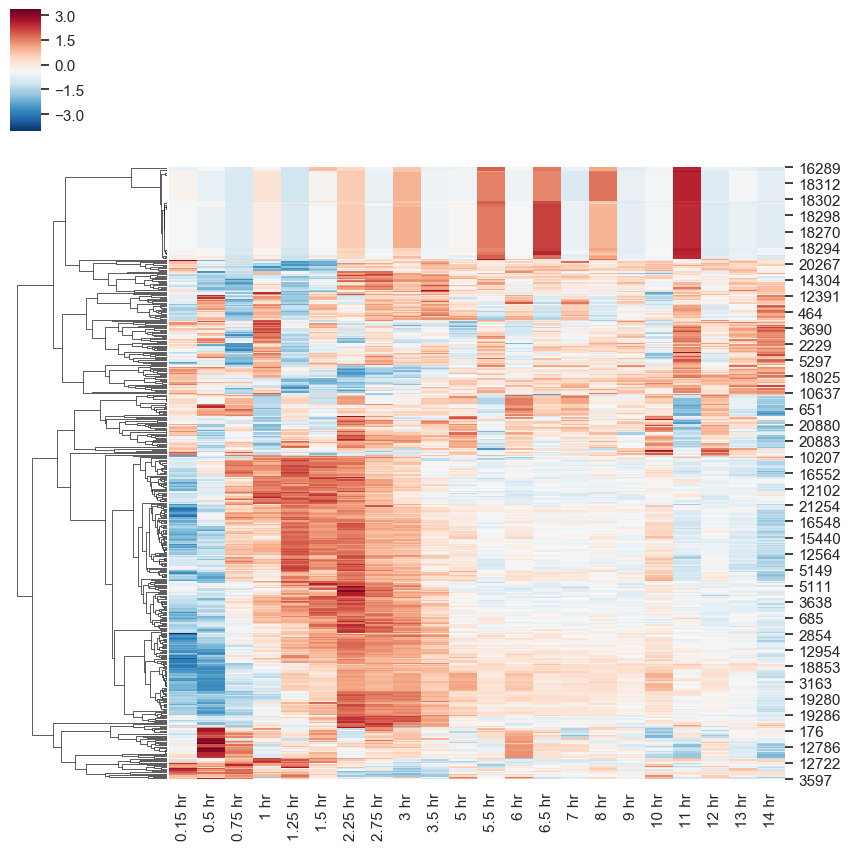
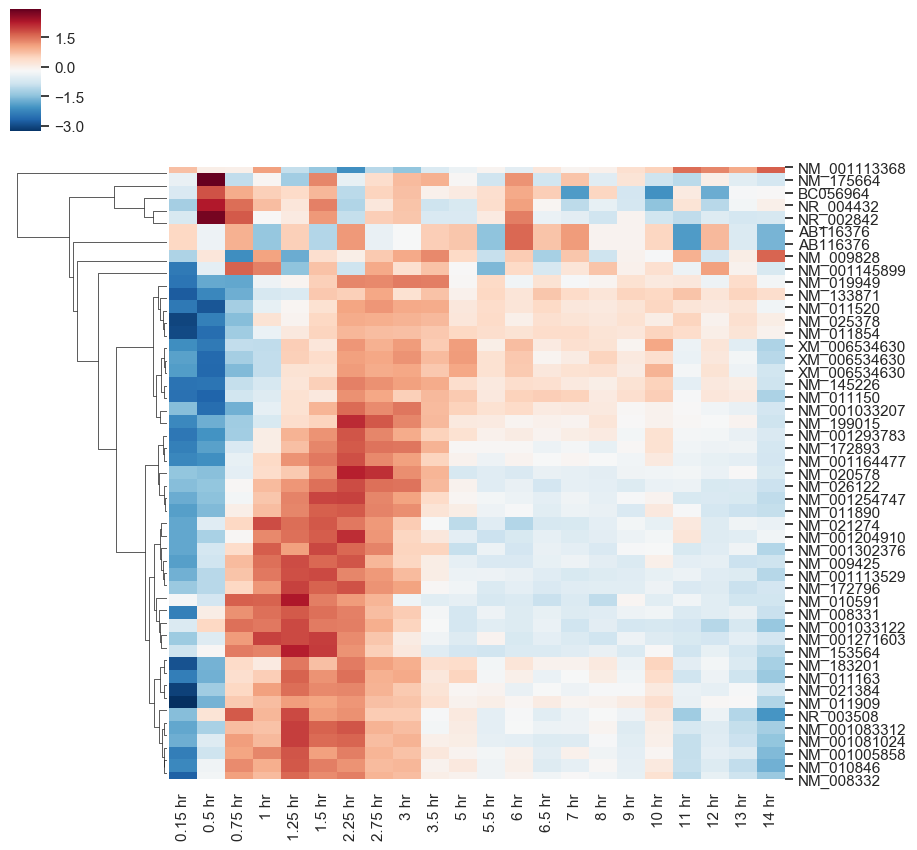
update plot

diff --git a/plot.py b/plot.py
@@ -40,7 +40,8 @@ def plot_heatmap(out, counts, num_genes):
     '''
     select_counts = counts.iloc[0:num_genes,1:].astype(float)
     select_counts = select_counts.sub(select_counts.iloc[:,0], axis='rows')
-    gene_names = counts.iloc[0:num_genes,1]
+    gene_names = counts['ACCNUM'].values
+    print(gene_names)
     # Normalize it by row:
     # (not sure if it is the best way, please feel free to give me a better method.)
     # 1: substract mean
@@ -54,6 +55,7 @@ def plot_heatmap(out, counts, num_genes):
         ax = sns.clustermap(df_norm_row,
                          metric="correlation", col_cluster=False,
                          xticklabels=xlabel,
+                         yticklabels=gene_names,
                          cmap="RdBu_r")
     else:
         ax = sns.clustermap(df_norm_row,

diff --git a/main.py b/main.py
@@ -117,6 +117,10 @@ def main():
     num_genes = int(args.num_genes)-1
     out_dir = args.out_dir
 
+    # plot pca
+    print('Generating PCA plot ...')
+    plot.plot_pca(out_dir, counts)
+
     # plot heatmap
     print('Generating Gene Expression Heatmap ...')
     plot.plot_heatmap(out_dir, counts, num_genes)
@@ -124,7 +128,7 @@ def main():
     # Plot gene expression tragectory
     print('Generating Gene Expression Trajectory ...')
     plot.plot_trajectory(out_dir, counts, num_genes)
-
+    sys.exit(0)
     # Save formatted and sorted count file
     counts.to_csv('data/counts_clust.txt', index = False, sep='\t')
 
